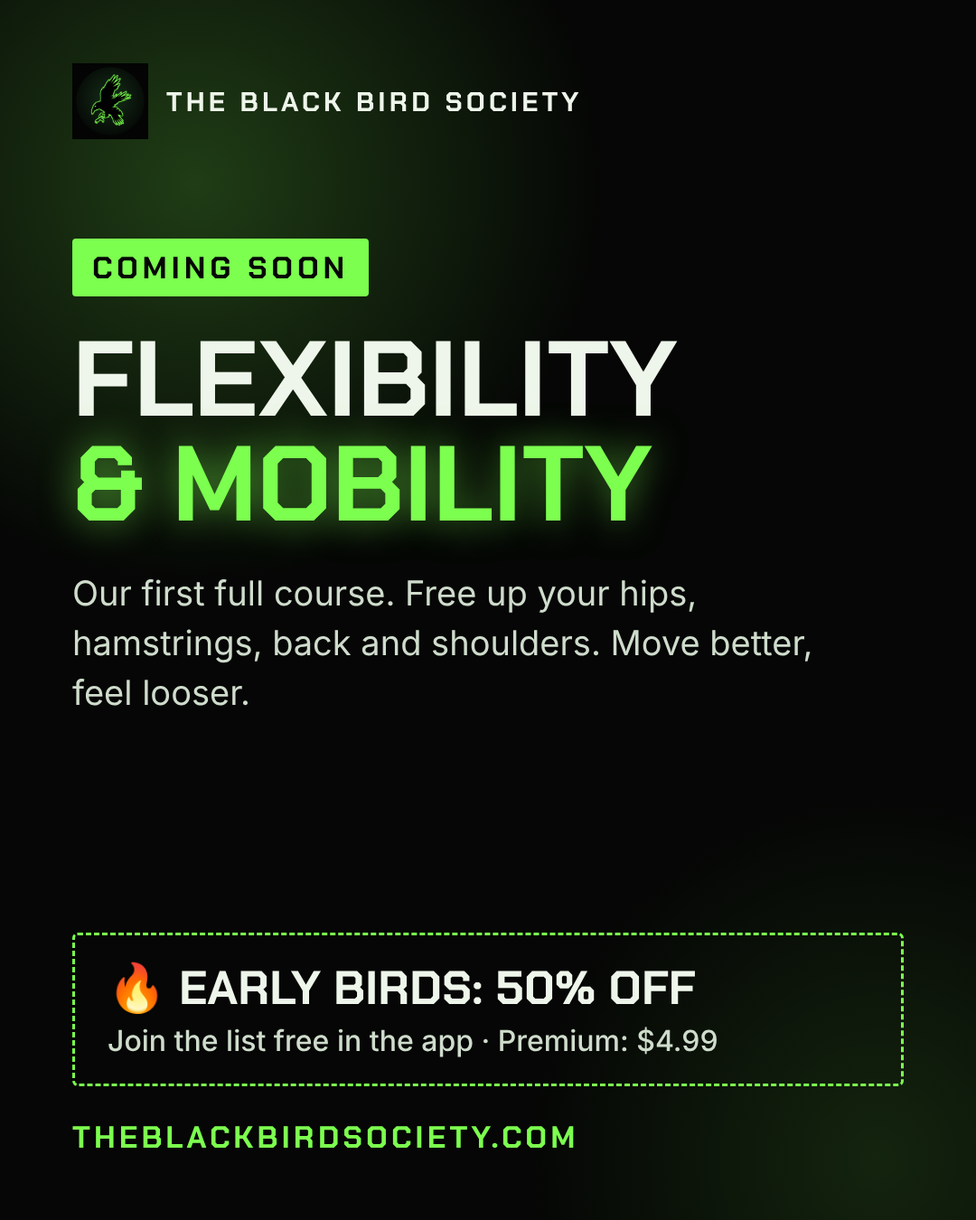
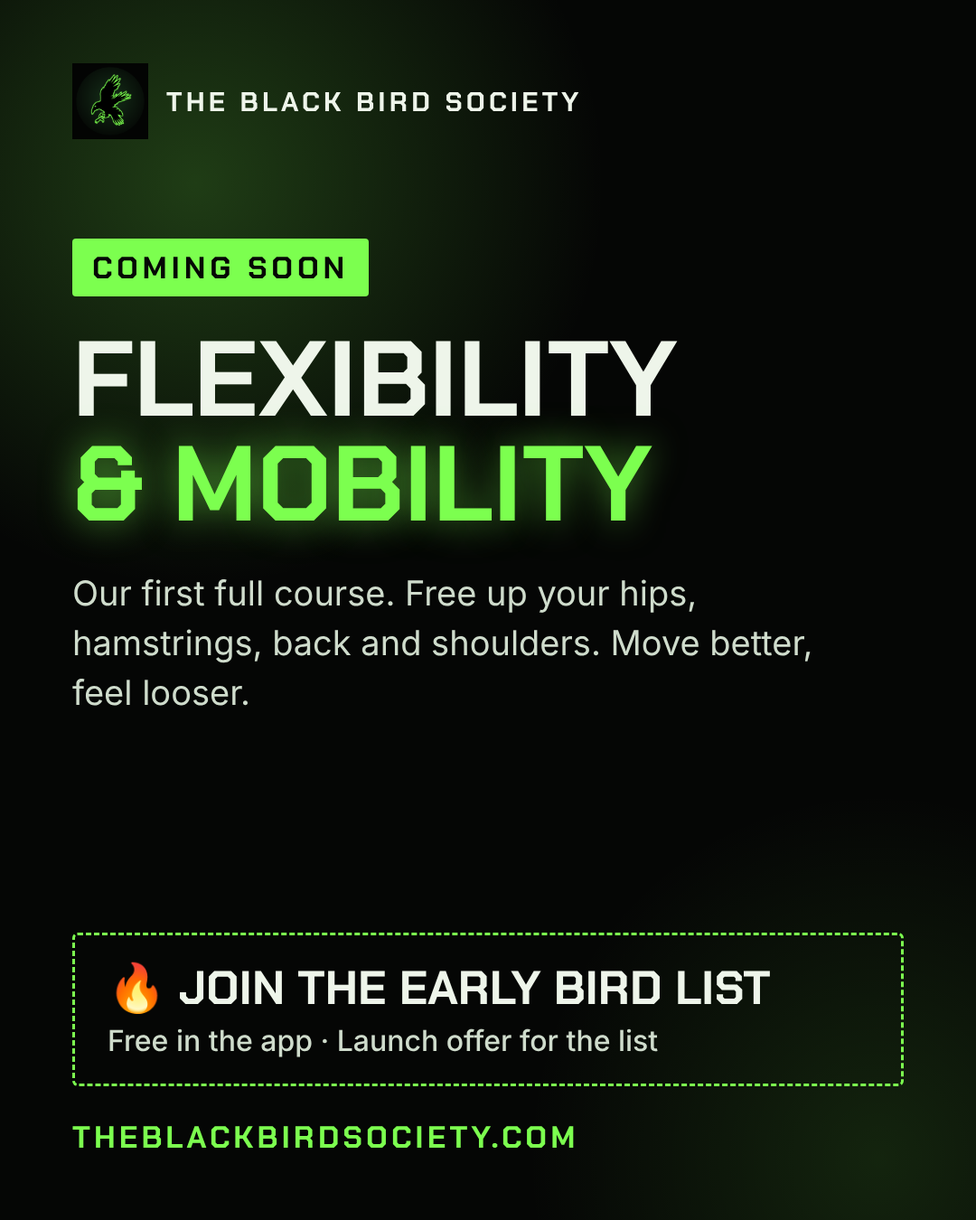
v77: no prices yet (teaser only), extras waitlist: meal packs, challenges, 1-to-1, shop
Claude-Session: https://claude.ai/code/session_01Uk22qZNG7xQMaRAJ8uwC6G

Changed region(s): [[0.0917, 0.7778, 0.7944, 0.8711]]

diff --git a/courses.html b/courses.html
@@ -1,8 +1,8 @@
 <!doctype html>
 <html lang="en"><head><meta charset="utf-8"><meta name="viewport" content="width=device-width, initial-scale=1, viewport-fit=cover">
-<title>Society Courses | The Black Bird Society</title><meta name="description" content="Full fitness courses from The Black Bird Society. Flexibility & Mobility is coming soon: early birds get 50% off, Premium members get every course at a special low price."><link rel="canonical" href="https://theblackbirdsociety.com/courses.html">
+<title>Society Courses | The Black Bird Society</title><meta name="description" content="Full fitness courses from The Black Bird Society. Flexibility & Mobility is coming soon: join the early bird list for a launch offer."><link rel="canonical" href="https://theblackbirdsociety.com/courses.html">
 <meta name="theme-color" content="#050605"><link rel="icon" href="/favicon.ico" sizes="48x48"><link rel="icon" type="image/png" sizes="96x96" href="/favicon-96.png"><link rel="apple-touch-icon" href="/apple-touch-icon.png">
-<meta property="og:type" content="article"><meta property="og:url" content="https://theblackbirdsociety.com/courses.html"><meta property="og:title" content="Society Courses | The Black Bird Society"><meta property="og:description" content="Full fitness courses from The Black Bird Society. Flexibility & Mobility is coming soon: early birds get 50% off, Premium members get every course at a special low price."><meta property="og:image" content="https://theblackbirdsociety.com/og.png">
+<meta property="og:type" content="article"><meta property="og:url" content="https://theblackbirdsociety.com/courses.html"><meta property="og:title" content="Society Courses | The Black Bird Society"><meta property="og:description" content="Full fitness courses from The Black Bird Society. Flexibility & Mobility is coming soon: join the early bird list for a launch offer."><meta property="og:image" content="https://theblackbirdsociety.com/og.png">
 <link rel="preconnect" href="https://fonts.googleapis.com"><link rel="stylesheet" href="https://fonts.googleapis.com/css2?family=Chakra+Petch:wght@500;600;700&family=Noto+Sans+Runic&family=Inter:wght@400;500;600;700&display=swap">
 <link rel="stylesheet" href="/site.css"><meta name="google-adsense-account" content="ca-pub-9202968623257308">
 <script async src="https://pagead2.googlesyndication.com/pagead/js/adsbygoogle.js?client=ca-pub-9202968623257308" crossorigin="anonymous"></script>
@@ -30,12 +30,12 @@
 .feat{border-color:var(--green-dim)!important;background:radial-gradient(80% 120% at 0% 0%,rgba(124,255,79,.12),transparent 60%),var(--surface)!important}
 .pt{display:grid;grid-template-columns:repeat(4,1fr);gap:8px;margin:0 0 16px}.pt div{border:1px solid var(--line2);border-radius:3px;padding:10px 12px;display:flex;flex-direction:column;gap:2px}.pt div.h{border-color:var(--green-dim)}.pt small{font-size:11px;color:var(--muted);text-transform:uppercase;letter-spacing:.06em}.pt b{font:700 22px var(--font-d)}.pt .h b{color:var(--green)}
 @media (max-width:560px){.pt{grid-template-columns:1fr 1fr}.cg{grid-template-columns:1fr}}
-</style><script type="application/ld+json">{"@context": "https://schema.org", "@type": "Article", "headline": "Society Courses", "description": "Full fitness courses from The Black Bird Society. Flexibility & Mobility is coming soon: early birds get 50% off, Premium members get every course at a special low price.", "author": {"@type": "Organization", "name": "The Black Bird Society"}, "publisher": {"@type": "Organization", "name": "The Black Bird Society", "logo": {"@type": "ImageObject", "url": "https://theblackbirdsociety.com/icon-512.png"}}, "image": "https://theblackbirdsociety.com/og.png", "datePublished": "2026-11-20", "dateModified": "2026-11-20", "mainEntityOfPage": "https://theblackbirdsociety.com/courses.html", "inLanguage": "en"}</script><script type="application/ld+json">{"@context": "https://schema.org", "@type": "BreadcrumbList", "itemListElement": [{"@type": "ListItem", "position": 1, "name": "Home", "item": "https://theblackbirdsociety.com/"}, {"@type": "ListItem", "position": 2, "name": "Blog", "item": "https://theblackbirdsociety.com/blog/"}, {"@type": "ListItem", "position": 3, "name": "Home or gym? Both work"}]}</script></head><body>
+</style><script type="application/ld+json">{"@context": "https://schema.org", "@type": "Article", "headline": "Society Courses", "description": "Full fitness courses from The Black Bird Society. Flexibility & Mobility is coming soon: join the early bird list for a launch offer.", "author": {"@type": "Organization", "name": "The Black Bird Society"}, "publisher": {"@type": "Organization", "name": "The Black Bird Society", "logo": {"@type": "ImageObject", "url": "https://theblackbirdsociety.com/icon-512.png"}}, "image": "https://theblackbirdsociety.com/og.png", "datePublished": "2026-11-20", "dateModified": "2026-11-20", "mainEntityOfPage": "https://theblackbirdsociety.com/courses.html", "inLanguage": "en"}</script><script type="application/ld+json">{"@context": "https://schema.org", "@type": "BreadcrumbList", "itemListElement": [{"@type": "ListItem", "position": 1, "name": "Home", "item": "https://theblackbirdsociety.com/"}, {"@type": "ListItem", "position": 2, "name": "Blog", "item": "https://theblackbirdsociety.com/blog/"}, {"@type": "ListItem", "position": 3, "name": "Home or gym? Both work"}]}</script></head><body>
 <header class="top"><div class="wrap">
   <a class="brand" href="/"><img src="/icon.png" alt=""><span><b>THE BLACK BIRD SOCIETY</b><small>EST. 2026</small></span></a>
   <nav class="links"><a class="hide-m" href="/#who">Who it's for</a><a class="hide-m" href="/#features">The app</a><a class="hide-m" href="/courses.html">Courses</a><a class="hide-m" href="/blog/">Blog</a><a class="hide-m" href="/#pricing">Pricing</a><a href="/app">Open the app</a></nav>
 </div></header>
-<main class="wrap pg"><div class="art" data-l="en" id="art"><p class="crumb"><a href="/">Home</a> / Courses</p><div class="lg"><button data-x="en" class="on">EN</button><button data-x="fr">FR</button></div><div class="en"><h1>Society Courses</h1><p class="lead">Deep-dive programs built by our coaches. Buy a course once and keep it forever. Premium members get every course at a special low price. The free app stays free.</p><div class="cta-box feat"><span class="btag">Coming soon</span><h3 style="font-size:30px;margin-top:10px">Flexibility &amp; Mobility</h3><p>A complete program to free up your hips, hamstrings, back and shoulders. Move better, feel looser, train with less pain.</p><p>🔥 <b>Early bird offer:</b> join the list now and get <b>50% off</b> at launch. Your rank discount stacks on top.</p><div class="pt"><div class=""><small>Price</small><b>$24.99</b></div><div class="h"><small>Early bird</small><b>$12.49</b></div><div class=""><small>Premium</small><b>$9.99</b></div><div class="h"><small>Premium early bird</small><b>$4.99</b></div></div><a class="btn btn-green" href="/app?c=1">Join the list · 50% off</a></div><div class="ghead"><span>ᚠ</span><h2>How it works</h2></div><div class="cg"><div><b>Buy once, keep forever</b><span>No subscription needed. The course is yours for life.</span></div><div><b>First lesson free</b><span>Try it before you buy, every course.</span></div><div><b>Premium price</b><span>Premium members get every course at a special price: up to 80% off.</span></div><div><b>Rank perks</b><span>The more you train, the less you pay: up to 20% off.</span></div></div><div class="ghead"><span>ᚱ</span><h2>Rank perks</h2></div><div class="ck"><div><i>ᛒ</i>Fledgling<em>—</em></div><div><i>ᚱ</i>Crow<em>-5%</em></div><div><i>ᚢ</i>Raven<em>-10%</em></div><div><i>ᛖ</i>Black Bird<em>-15%</em></div><div><i>ᛞ</i>Elder<em>-20%</em></div></div><div class="ghead"><span>ᚷ</span><h2>Vote for the next course</h2></div><p>The most wanted gets built next, and voters get the early bird price too. Vote in the app.</p><div class="ck"><div>Abs &amp; Core 30 days</div><div>Glute Builder</div><div>First Pull-up</div><div>Back &amp; Posture</div><div>60+ Strength &amp; Balance</div><div>Pregnancy &amp; After Birth</div><div>Fat Loss 8 weeks</div></div><p><a class="btn btn-green" href="/app?c=1">Vote in the app</a></p><div class="ghead"><span>ᛗ</span><h2>FAQ</h2></div><div class="fq"><h3>Is the app still free?</h3><p>Yes. Every free workout, meal and tool stays free. Courses are an optional extra.</p><h3>When does Flexibility &amp; Mobility launch?</h3><p>Soon. Join the list in the app and you'll be the first to know, with your 50% early bird price.</p><h3>I'm Premium. What do I pay?</h3><p>You pay much less: Flexibility &amp; Mobility is $9.99 instead of $24.99 for Premium members, or $4.99 if you join the early bird list.</p></div></div><div class="fr"><h1>Les cours de la Society</h1><p class="lead">Des programmes complets créés par nos coachs. Achète un cours une fois et garde-le pour toujours. Les membres Premium ont chaque cours à petit prix. L'appli gratuite reste gratuite.</p><div class="cta-box feat"><span class="btag">Bientôt</span><h3 style="font-size:30px;margin-top:10px">Souplesse &amp; Mobilité</h3><p>Un programme complet pour libérer tes hanches, ischios, dos et épaules. Bouge mieux, sens-toi plus libre, entraîne-toi avec moins de douleurs.</p><p>🔥 <b>Offre premiers inscrits :</b> inscris-toi maintenant et profite de <b>-50 %</b> au lancement. La réduction de ton rang s'ajoute en plus.</p><div class="pt"><div class=""><small>Prix</small><b>24,99 $</b></div><div class="h"><small>Premier inscrit</small><b>12,49 $</b></div><div class=""><small>Premium</small><b>9,99 $</b></div><div class="h"><small>Premium + premier inscrit</small><b>4,99 $</b></div></div><a class="btn btn-green" href="/app?c=1">M'inscrire · -50 %</a></div><div class="ghead"><span>ᚠ</span><h2>Comment ça marche</h2></div><div class="cg"><div><b>Achète une fois, garde-le</b><span>Pas besoin d'abonnement. Le cours est à toi pour toujours.</span></div><div><b>Première leçon offerte</b><span>Essaie avant d'acheter, pour chaque cours.</span></div><div><b>Prix Premium</b><span>Les membres Premium ont chaque cours à prix spécial : jusqu'à -80 %.</span></div><div><b>Avantages de rang</b><span>Plus tu t'entraînes, moins tu paies : jusqu'à -20 %.</span></div></div><div class="ghead"><span>ᚱ</span><h2>Avantages de rang</h2></div><div class="ck"><div><i>ᛒ</i>Oisillon<em>—</em></div><div><i>ᚱ</i>Corbeau<em>-5%</em></div><div><i>ᚢ</i>Grand Corbeau<em>-10%</em></div><div><i>ᛖ</i>Black Bird<em>-15%</em></div><div><i>ᛞ</i>Ancien<em>-20%</em></div></div><div class="ghead"><span>ᚷ</span><h2>Vote pour le prochain cours</h2></div><p>Le plus demandé sera créé ensuite, et les votants ont aussi le tarif premiers inscrits. Vote dans l’appli.</p><div class="ck"><div>Abdos &amp; Gainage 30 jours</div><div>Fessiers sculptés</div><div>Première traction</div><div>Dos &amp; Posture</div><div>60+ Force &amp; Équilibre</div><div>Grossesse &amp; Après bébé</div><div>Perte de gras 8 semaines</div></div><p><a class="btn btn-green" href="/app?c=1">Voter dans l’appli</a></p><div class="ghead"><span>ᛗ</span><h2>FAQ</h2></div><div class="fq"><h3>L'appli reste gratuite ?</h3><p>Oui. Toutes les séances, repas et outils gratuits restent gratuits. Les cours sont un extra en option.</p><h3>Quand sort Souplesse &amp; Mobilité ?</h3><p>Bientôt. Inscris-toi dans l'appli et tu seras prévenu en premier, avec ton tarif premiers inscrits à -50 %.</p><h3>Je suis Premium. Combien je paie ?</h3><p>Tu paies beaucoup moins : Souplesse &amp; Mobilité est à 9,99 $ au lieu de 24,99 $ pour les membres Premium, ou 4,99 $ si tu t'inscris sur la liste.</p></div></div></div></main>
+<main class="wrap pg"><div class="art" data-l="en" id="art"><p class="crumb"><a href="/">Home</a> / Courses</p><div class="lg"><button data-x="en" class="on">EN</button><button data-x="fr">FR</button></div><div class="en"><h1>Society Courses</h1><p class="lead">Deep-dive programs built by our coaches. Plus more extras on the way. The free app stays free.</p><div class="cta-box feat"><span class="btag">Coming soon</span><h3 style="font-size:30px;margin-top:10px">Flexibility &amp; Mobility</h3><p>A complete program to free up your hips, hamstrings, back and shoulders. Move better, feel looser, train with less pain.</p><p>🔥 <b>Early bird list:</b> join now and get a special launch offer, only for people on the list.</p><a class="btn btn-green" href="/app?c=1">Join the early bird list</a></div><div class="ghead"><span>ᚠ</span><h2>How it works</h2></div><div class="cg"><div><b>Buy once, keep forever</b><span>No subscription needed. The course is yours for life.</span></div><div><b>Early bird list</b><span>Join free now, get a launch offer later.</span></div><div><b>Premium price</b><span>Premium members will get a special price on every course.</span></div><div><b>More extras</b><span>Meal plan packs, challenges, 1-to-1 programs and the Society Shop are on the way.</span></div></div><div class="ghead"><span>ᚷ</span><h2>Vote for the next course</h2></div><p>The most wanted gets built next, and voters join its early bird list. Vote in the app.</p><div class="ck"><div>Abs &amp; Core 30 days</div><div>Glute Builder</div><div>First Pull-up</div><div>Back &amp; Posture</div><div>60+ Strength &amp; Balance</div><div>Pregnancy &amp; After Birth</div><div>Fat Loss 8 weeks</div></div><p><a class="btn btn-green" href="/app?c=1">Vote in the app</a></p><div class="ghead"><span>ᛗ</span><h2>FAQ</h2></div><div class="fq"><h3>Is the app still free?</h3><p>Yes. Every free workout, meal and tool stays free. Courses are an optional extra.</p><h3>When does Flexibility &amp; Mobility launch?</h3><p>Soon. Join the list in the app and you'll be the first to know, with your early bird offer.</p><h3>I'm Premium. What do I pay?</h3><p>Premium members will get a special price on every course. Details at launch.</p></div></div><div class="fr"><h1>Les cours de la Society</h1><p class="lead">Des programmes complets créés par nos coachs. Et d'autres extras en préparation. L'appli gratuite reste gratuite.</p><div class="cta-box feat"><span class="btag">Bientôt</span><h3 style="font-size:30px;margin-top:10px">Souplesse &amp; Mobilité</h3><p>Un programme complet pour libérer tes hanches, ischios, dos et épaules. Bouge mieux, sens-toi plus libre, entraîne-toi avec moins de douleurs.</p><p>🔥 <b>Liste des premiers inscrits :</b> inscris-toi maintenant et profite d'une offre de lancement réservée aux inscrits.</p><a class="btn btn-green" href="/app?c=1">M'inscrire en avant-première</a></div><div class="ghead"><span>ᚠ</span><h2>Comment ça marche</h2></div><div class="cg"><div><b>Achète une fois, garde-le</b><span>Pas besoin d'abonnement. Le cours est à toi pour toujours.</span></div><div><b>Liste avant-première</b><span>Inscris-toi gratuitement, profite d'une offre au lancement.</span></div><div><b>Prix Premium</b><span>Les membres Premium auront un prix spécial sur chaque cours.</span></div><div><b>D'autres extras</b><span>Packs repas, défis, programmes 1-to-1 et la boutique Society arrivent.</span></div></div><div class="ghead"><span>ᚷ</span><h2>Vote pour le prochain cours</h2></div><p>Le plus demandé sera créé ensuite, et les votants rejoignent sa liste d’avant-première. Vote dans l’appli.</p><div class="ck"><div>Abdos &amp; Gainage 30 jours</div><div>Fessiers sculptés</div><div>Première traction</div><div>Dos &amp; Posture</div><div>60+ Force &amp; Équilibre</div><div>Grossesse &amp; Après bébé</div><div>Perte de gras 8 semaines</div></div><p><a class="btn btn-green" href="/app?c=1">Voter dans l’appli</a></p><div class="ghead"><span>ᛗ</span><h2>FAQ</h2></div><div class="fq"><h3>L'appli reste gratuite ?</h3><p>Oui. Toutes les séances, repas et outils gratuits restent gratuits. Les cours sont un extra en option.</p><h3>Quand sort Souplesse &amp; Mobilité ?</h3><p>Bientôt. Inscris-toi dans l'appli et tu seras prévenu en premier, avec ton offre de lancement.</p><h3>Je suis Premium. Combien je paie ?</h3><p>Les membres Premium auront un prix spécial sur chaque cours. Détails au lancement.</p></div></div></div></main>
 <footer><div class="wrap">
   <div><a class="brand" href="/"><img src="/icon.png" alt=""><span><b>THE BLACK BIRD SOCIETY</b><small>EST. 2026</small></span></a>
   <p class="small" style="margin-top:12px">Contact: <a href="mailto:contact@theblackbirdsociety.com" style="color:var(--green)">contact@theblackbirdsociety.com</a></p>

diff --git a/app.html b/app.html
@@ -3052,11 +3052,12 @@ function ssCalLinks(x){
 /* ===== Society Courses (21 Nov 2026): paid extras, waitlist + vote for the next course ===== */
 const CRS = ["flex","abs30","glutes","pullup","posture","over60","mama","fatloss"];
 const CRS_OFF = [0,5,10,15,20];
+const CRS_X = ["meals","challenge","coach","shop"];
 function loadCrs(){ if(!sb) return; sb.rpc("course_stats").then(({ data }) => { st.crs = data || {mine:[],counts:{}}; render(); }).catch(() => {}); }
 function crsWant(c){
   if(!(sb && st.user && st.user.cloud)){ toast(tx("crsLogin")); return; }
   const mine = (st.crs && st.crs.mine) || [], on = !mine.includes(c);
-  sb.rpc("course_want", {p_course: c, p_on: on}).then(({ data }) => { if(data) st.crs = data; if(on) toast(tx(c === "flex" ? "crsJoined" : "crsVoted")); render(); }).catch(() => toast(tx("fbFail")));
+  sb.rpc("course_want", {p_course: c, p_on: on}).then(({ data }) => { if(data) st.crs = data; if(on) toast(tx(c === "flex" ? "crsJoined" : CRS_X.includes(c) ? "crsNoted" : "crsVoted")); render(); }).catch(() => toast(tx("fbFail")));
 }
 function crsNudge(){
   if(st.crsHide || store.get("bbt_crshide", 0) > Date.now()) return "";
@@ -3067,6 +3068,8 @@ function crsSheet(){
   const r = rankOf(st.total || 0), joined = mine.includes("flex"), nFlex = +cnt.flex || 0;
   const chk = I.check;
   const ranks = RANKS.map((rk,i) => `<div class="${i === r ? "me" : ""}"><span class="rune">${RUNES[i]}</span><span>${RN(i)}${i === r ? ` <small class="muted">· ${tx("crsYou")}</small>` : ""}</span><em>${CRS_OFF[i] ? "-" + CRS_OFF[i] + "%" : "—"}</em></div>`).join("");
+  const extras = CRS_X.map(c => { const on = mine.includes(c);
+    return `<div class="crsv"><span class="grow" style="min-width:0"><b>${tx("crs_" + c)}</b><small>${tx("crsd_" + c)}</small></span><button class="pill${on ? " on" : ""}" data-act="crsw" data-c="${c}" aria-pressed="${on}">${on ? "✓ " + tx("crsNotOn") : tx("crsNot")}</button></div>`; }).join("");
   const votes = CRS.slice(1).map(c => { const on = mine.includes(c), n = +cnt[c] || 0;
     return `<div class="crsv"><span class="grow" style="min-width:0"><b>${tx("crs_" + c)}</b><small>${tx("crsd_" + c)}${n ? ` <span style="white-space:nowrap">· 🔥 ${n}</span>` : ""}</small></span><button class="pill${on ? " on" : ""}" data-act="crsw" data-c="${c}" aria-pressed="${on}">${on ? "✓ " + tx("crsVoteOn") : tx("crsVote")}</button></div>`; }).join("");
   return `<div class="backdrop" data-act="crsx"></div><div class="sheet" role="dialog" aria-modal="true" aria-label="${tx("crsT")}"><div class="grab"></div>
@@ -3074,8 +3077,7 @@ function crsSheet(){
     <p class="muted" style="margin:0;font-size:14px;line-height:1.5">${tx("crsSub")}</p>
     <div class="crsfeat"><span class="crsnew" style="align-self:flex-start;font-size:11px;padding:3px 7px;margin:0">${tx("crsSoon")}</span>
       <h3>${tx("crs_flex")}</h3><p class="muted" style="margin:0;font-size:14px;line-height:1.5">${tx("crsFlexP")}</p>
-      <ul><li>${chk}<span>${tx("crsB1")}</span></li><li>${chk}<span>${tx("crsB2")}</span></li><li>${chk}<span>${tx("crsB3")}</span></li><li>${chk}<span>${tx("crsB4")}</span></li></ul>
-      <div class="crsprice"><div><small>${tx("crsPrReg")}</small><b>$24.99</b></div><div class="hot"><small>${tx("crsPrEb")}</small><b>$12.49</b></div><div><small>Premium</small><b>$9.99</b></div><div class="hot"><small>${tx("crsPrBoth")}</small><b>$4.99</b></div></div>
+      <ul><li>${chk}<span>${tx("crsB1")}</span></li><li>${chk}<span>${tx("crsB2")}</span></li><li>${chk}<span>${tx("crsB4")}</span></li></ul>
       <div class="crsdeal">🔥 <b>${tx("crsDealT")}</b> ${tx("crsDealP")}</div>
       <button class="btn ${joined ? "btn-line" : "btn-gold"}" data-act="crsw" data-c="flex" aria-pressed="${joined}" style="min-height:48px">${joined ? "✓ " + tx("crsOnList") : tx("crsJoin")}</button>
       ${nFlex >= 5 ? `<p class="small" style="margin:0;text-align:center">${tx("crsCount").replace("{n}", nFlex)}</p>` : ""}
@@ -3083,36 +3085,36 @@ function crsSheet(){
     <div class="card" style="display:flex;flex-direction:column;gap:8px"><p class="eyebrow gold">👑 ${t("pro")}</p>
       <p style="margin:0;font-size:14px;line-height:1.5">${isPro ? tx("crsProYes") : tx("crsProNo")}</p>
       ${isPro ? "" : `<button class="btn btn-line" data-act="crspro" style="min-height:44px;font-size:14px">${tx("pmGo")} ${I.arrow}</button>`}</div>
-    <div class="card" style="display:flex;flex-direction:column;gap:8px"><p class="eyebrow gold">${tx("crsRkT")}</p>
-      <p class="muted" style="margin:0;font-size:13px;line-height:1.5">${tx("crsRkP")}</p><div class="crsrk">${ranks}</div></div>
     <div class="card" style="display:flex;flex-direction:column;gap:2px"><p class="eyebrow gold">${tx("crsVoteT")}</p>
       <p class="muted" style="margin:0 0 4px;font-size:13px;line-height:1.5">${tx("crsVoteP")}</p>${votes}</div>
+    <div class="card" style="display:flex;flex-direction:column;gap:2px"><p class="eyebrow gold">${tx("crsXT")}</p>
+      <p class="muted" style="margin:0 0 4px;font-size:13px;line-height:1.5">${tx("crsXP")}</p>${extras}</div>
   </div>`;
 }
 { const X = {
-en:{crsT:"Society Courses",crsNew:"New",crsTile:"Flexibility & Mobility · soon",crsSee:"See the offer",crsNudge:"Society Courses are coming: Flexibility & Mobility first. Early birds get 50% off.",
-crsSub:"Deep-dive programs built by our coaches. Buy a course once and keep it forever. Premium members get every course at a special low price. The free app stays free.",
+en:{crsT:"Society Courses",crsNew:"New",crsTile:"Flexibility & Mobility · soon",crsSee:"See the offer",crsNudge:"Society Courses are coming: Flexibility & Mobility first. Join the early bird list for a launch offer.",
+crsSub:"Deep-dive programs built by our coaches, plus more extras on the way. The free app stays free.",
 crsSoon:"Coming soon",crs_flex:"Flexibility & Mobility",crsFlexP:"A complete program to free up your hips, hamstrings, back and shoulders. Move better, feel looser, train with less pain.",
 crsB1:"Step-by-step guided sessions with timer and beeps",crsB2:"For every level, from stiff beginner up",crsB3:"First lesson free for everyone",crsB4:"Buy once, yours forever",
-crsDealT:"Early bird offer:",crsDealP:"join the list now and get 50% off at launch. Your rank discount stacks on top.",crsJoin:"Join the list · 50% off",crsOnList:"You're on the list",crsCount:"{n} members already on the list",
-crsProYes:"You're Premium: you get every Society course at the Premium price. Flexibility & Mobility: $9.99 instead of $24.99, or $4.99 as an early bird.",crsProNo:"Premium members get every Society course at a special price: Flexibility & Mobility for $9.99 instead of $24.99, or $4.99 as an early bird.",
+crsDealT:"Early bird list:",crsDealP:"join now and get a special launch offer, only for people on the list.",crsJoin:"Join the early bird list",crsOnList:"You're on the list",crsCount:"{n} members already on the list",
+crsProYes:"You're Premium: you'll get a special Premium price on every Society course.",crsProNo:"Premium members will get a special price on every Society course.",
 crsRkT:"Rank perks",crsRkP:"The more you train, the less you pay. Your rank gives you a discount on every course.",crsYou:"you",
-crsVoteT:"Vote for the next course",crsVoteP:"Tap the ones you want. The most wanted gets built next, and voters get the early bird price too.",crsVote:"I want it",crsVoteOn:"Voted",
+crsVoteT:"Vote for the next course",crsVoteP:"Tap the ones you want. The most wanted gets built next, and voters join its early bird list.",crsVote:"I want it",crsVoteOn:"Voted",
 crs_abs30:"Abs & Core 30 days",crsd_abs30:"A daily core challenge",crs_glutes:"Glute Builder",crsd_glutes:"Stronger, rounder glutes",crs_pullup:"First Pull-up",crsd_pullup:"From zero to your first rep",
 crs_posture:"Back & Posture",crsd_posture:"For desk days and sore backs",crs_over60:"60+ Strength & Balance",crsd_over60:"Stay strong and steady",crs_mama:"Pregnancy & After Birth",crsd_mama:"A full program, step by step",crs_fatloss:"Fat Loss 8 weeks",crsd_fatloss:"Training + meals + grocery lists",
-crsPrReg:"Price",crsPrEb:"Early bird",crsPrBoth:"Premium early bird",crsLogin:"Log in to join the list.",crsJoined:"You're on the list! We'll tell you first, with your early bird 50% off.",crsVoted:"Vote counted. Thanks!",crsPf:"Society courses at the Premium price, up to 80% off (coming soon)",
+crsPrReg:"Price",crsPrEb:"Early bird",crsPrBoth:"Premium early bird",crsXT:"More extras coming",crsXP:"Tap what you want and we'll tell you first when it's ready.",crsNot:"Notify me",crsNotOn:"On the list",crsNoted:"Noted! You'll be the first to know.",crs_meals:"Meal plan packs",crsd_meals:"Budget, high-protein, vegetarian",crs_challenge:"Monthly challenges",crsd_challenge:"30 days, a goal and a badge",crs_coach:"1-to-1 program",crsd_coach:"A plan written for you by a coach",crs_shop:"Society Shop",crsd_shop:"Apparel and gear",crsLogin:"Log in to join the list.",crsJoined:"You're on the list! We'll tell you first, with your early bird offer.",crsVoted:"Vote counted. Thanks!",crsPf:"Special Premium price on Society courses (coming soon)",
 n_adm_course:"📚 {name} wants the course: {course}"},
-fr:{crsT:"Cours de la Society",crsNew:"Nouveau",crsTile:"Souplesse & Mobilité · bientôt",crsSee:"Voir l'offre",crsNudge:"Les cours de la Society arrivent : Souplesse & Mobilité en premier. -50 % pour les premiers inscrits.",
-crsSub:"Des programmes complets créés par nos coachs. Achète un cours une fois et garde-le pour toujours. Les membres Premium ont chaque cours à petit prix. L'appli gratuite reste gratuite.",
+fr:{crsT:"Cours de la Society",crsNew:"Nouveau",crsTile:"Souplesse & Mobilité · bientôt",crsSee:"Voir l'offre",crsNudge:"Les cours de la Society arrivent : Souplesse & Mobilité en premier. Inscris-toi pour l'offre de lancement.",
+crsSub:"Des programmes complets créés par nos coachs, et d'autres extras en préparation. L'appli gratuite reste gratuite.",
 crsSoon:"Bientôt",crs_flex:"Souplesse & Mobilité",crsFlexP:"Un programme complet pour libérer tes hanches, ischios, dos et épaules. Bouge mieux, sens-toi plus libre, entraîne-toi avec moins de douleurs.",
 crsB1:"Séances guidées pas à pas avec minuteur et bips",crsB2:"Pour tous les niveaux, même si tu es raide",crsB3:"Première leçon offerte à tous",crsB4:"Achète une fois, à toi pour toujours",
-crsDealT:"Offre premiers inscrits :",crsDealP:"inscris-toi maintenant et profite de -50 % au lancement. La réduction de ton rang s'ajoute en plus.",crsJoin:"M'inscrire · -50 %",crsOnList:"Tu es sur la liste",crsCount:"{n} membres déjà inscrits",
-crsProYes:"Tu es Premium : tu as chaque cours de la Society au prix Premium. Souplesse & Mobilité : 9,99 $ au lieu de 24,99 $, ou 4,99 $ en premier inscrit.",crsProNo:"Les membres Premium ont chaque cours de la Society à prix spécial : Souplesse & Mobilité à 9,99 $ au lieu de 24,99 $, ou 4,99 $ en premier inscrit.",
+crsDealT:"Liste des premiers inscrits :",crsDealP:"inscris-toi maintenant et profite d'une offre de lancement réservée aux inscrits.",crsJoin:"M'inscrire en avant-première",crsOnList:"Tu es sur la liste",crsCount:"{n} membres déjà inscrits",
+crsProYes:"Tu es Premium : tu auras un prix Premium spécial sur chaque cours de la Society.",crsProNo:"Les membres Premium auront un prix spécial sur chaque cours de la Society.",
 crsRkT:"Avantages de rang",crsRkP:"Plus tu t'entraînes, moins tu paies. Ton rang te donne une réduction sur chaque cours.",crsYou:"toi",
-crsVoteT:"Vote pour le prochain cours",crsVoteP:"Touche ceux que tu veux. Le plus demandé sera créé ensuite, et les votants ont aussi le tarif premiers inscrits.",crsVote:"Je le veux",crsVoteOn:"Voté",
+crsVoteT:"Vote pour le prochain cours",crsVoteP:"Touche ceux que tu veux. Le plus demandé sera créé ensuite, et les votants rejoignent sa liste d'avant-première.",crsVote:"Je le veux",crsVoteOn:"Voté",
 crs_abs30:"Abdos & Gainage 30 jours",crsd_abs30:"Un défi gainage chaque jour",crs_glutes:"Fessiers sculptés",crsd_glutes:"Des fessiers plus forts et plus ronds",crs_pullup:"Première traction",crsd_pullup:"De zéro à ta première rep",
 crs_posture:"Dos & Posture",crsd_posture:"Pour les journées au bureau et le mal de dos",crs_over60:"60+ Force & Équilibre",crsd_over60:"Rester fort et stable",crs_mama:"Grossesse & Après bébé",crsd_mama:"Un programme complet, pas à pas",crs_fatloss:"Perte de gras 8 semaines",crsd_fatloss:"Entraînement + repas + listes de courses",
-crsPrReg:"Prix",crsPrEb:"Premier inscrit",crsPrBoth:"Premium + premier inscrit",crsLogin:"Connecte-toi pour t'inscrire.",crsJoined:"Tu es sur la liste ! Tu seras prévenu en premier, avec tes -50 %.",crsVoted:"Vote enregistré. Merci !",crsPf:"Cours de la Society au prix Premium, jusqu'à -80 % (bientôt)",
+crsPrReg:"Prix",crsPrEb:"Premier inscrit",crsPrBoth:"Premium + premier inscrit",crsXT:"D'autres extras arrivent",crsXP:"Touche ce qui t'intéresse, on te prévient en premier quand c'est prêt.",crsNot:"Me prévenir",crsNotOn:"Sur la liste",crsNoted:"C'est noté ! Tu seras prévenu en premier.",crs_meals:"Packs de plans repas",crsd_meals:"Petit budget, protéiné, végétarien",crs_challenge:"Défis du mois",crsd_challenge:"30 jours, un objectif et un badge",crs_coach:"Programme 1-to-1",crsd_coach:"Un plan écrit pour toi par un coach",crs_shop:"Boutique Society",crsd_shop:"Vêtements et équipement",crsLogin:"Connecte-toi pour t'inscrire.",crsJoined:"Tu es sur la liste ! Tu seras prévenu en premier, avec ton offre de lancement.",crsVoted:"Vote enregistré. Merci !",crsPf:"Prix Premium spécial sur les cours de la Society (bientôt)",
 n_adm_course:"📚 {name} veut le cours : {course}"}};
 Object.keys(X).forEach(l=>Object.assign(TX[l]=TX[l]||{},X[l])); }
 function pushNudge(){
@@ -4913,7 +4915,7 @@ if("serviceWorker" in navigator && location.protocol === "https:") navigator.ser
 /* new version check: on open and every time the app comes back to the screen */
 (() => { try{ if(new URLSearchParams(location.search).get("n") === "1"){ setTimeout(() => { if(st.user){ st.nOpen = true; pushState(); render(); } }, 900); history.replaceState(history.state, "", location.pathname); } }catch(e){} })();
 setTimeout(() => { if(st.user && st.user.cloud) pushState(); }, 3000);
-const APP_V = "bbt-v76";
+const APP_V = "bbt-v77";
 function verCheck(){ if(location.protocol !== "https:") return;
   if(st.newV){ if(st.view !== "work") updNow(); return; }
   fetch("/sw.js?v=" + Date.now(), {cache:"no-store"}).then(r => r.text()).then(tx2 => { const m = tx2.match(/bbt-v\d+/); if(m && +m[0].slice(5) > +APP_V.slice(5)){ st.newV = m[0]; if(st.view !== "work") updNow(); } }).catch(() => {}); }

diff --git a/index.html b/index.html
@@ -214,10 +214,10 @@
 </script>
 
 <section id="courses" class="sec"><div class="wrap">
-  <div class="sec-head"><p class="eyebrow">New · Society Courses</p><h2>Go deeper with a full course.</h2><p class="muted">Step-by-step programs built by our coaches. Buy a course once and keep it forever. Premium members get every course at a special low price. The free app stays free.</p></div>
+  <div class="sec-head"><p class="eyebrow">New · Society Courses</p><h2>Go deeper with a full course.</h2><p class="muted">Step-by-step programs built by our coaches, plus more extras on the way. The free app stays free.</p></div>
   <div class="card crs-hero"><span class="tag">Coming soon</span><h3>Flexibility &amp; Mobility</h3><p class="muted">A complete program to free up your hips, hamstrings, back and shoulders. Move better, feel looser, train with less pain.</p>
-    <ul class="ticks"><li>Early bird: 50% off at launch when you join the list</li><li>First lesson free for everyone</li><li>Rank perks: up to 20% extra off as you train</li><li>$24.99 · Early bird $12.49 · Premium $9.99 (early bird $4.99)</li></ul>
-    <div class="crs-cta"><a class="btn btn-green" href="/app?c=1">Join the list · 50% off</a><a class="btn" href="/courses.html">See all courses</a></div></div>
+    <ul class="ticks"><li>Step-by-step guided sessions</li><li>For every level, from stiff beginner up</li><li>Early bird list: a special launch offer for people who join now</li><li>Special price for Premium members</li></ul>
+    <div class="crs-cta"><a class="btn btn-green" href="/app?c=1">Join the early bird list</a><a class="btn" href="/courses.html">See all courses</a></div></div>
 </div></section>
 <style>.crs-hero{position:relative;display:flex;flex-direction:column;gap:12px;max-width:760px;border-color:var(--green-dim)!important;background:radial-gradient(80% 120% at 0% 0%,rgba(124,255,79,.12),transparent 60%),var(--surface)}.crs-hero .tag{align-self:flex-start}.crs-hero h3{font-size:clamp(24px,3.5vw,34px)}.crs-cta{display:flex;flex-wrap:wrap;gap:10px;margin-top:6px}</style>
 
@@ -225,8 +225,8 @@
   <div class="sec-head"><p class="eyebrow">Pricing</p><h2>Start free. Go Premium when you're ready.</h2><p class="muted">Prices in US dollars. Taxes are calculated at checkout where applicable.</p></div>
   <div class="prices">
     <div class="card plan"><h3>Free</h3><p class="price">$0</p><ul class="ticks"><li>Starter sessions</li><li>Machine swaps (limited)</li><li>Rest timer and tracking</li><li>Ads between workouts</li></ul></div>
-    <div class="card plan"><h3>Premium monthly</h3><p class="price">$7.99<small> / month</small></p><ul class="ticks"><li>All sessions and plans</li><li>Unlimited smart swaps</li><li>No ads</li><li>New workouts every month</li><li>Society courses at Premium price, up to 80% off (coming soon)</li></ul><p class="small">7-day free trial. Cancel anytime.</p></div>
-    <div class="card plan best"><span class="tag">Best value · save 48%</span><h3>Premium yearly</h3><p class="price">$49.99<small> / year</small></p><ul class="ticks"><li>Everything in Premium</li><li>Society courses at Premium price, up to 80% off (coming soon)</li><li>Just $4.17 a month</li><li>Members-only perks</li></ul><p class="small">7-day free trial. Cancel anytime.</p></div>
+    <div class="card plan"><h3>Premium monthly</h3><p class="price">$7.99<small> / month</small></p><ul class="ticks"><li>All sessions and plans</li><li>Unlimited smart swaps</li><li>No ads</li><li>New workouts every month</li><li>Special Premium price on Society courses (coming soon)</li></ul><p class="small">7-day free trial. Cancel anytime.</p></div>
+    <div class="card plan best"><span class="tag">Best value · save 48%</span><h3>Premium yearly</h3><p class="price">$49.99<small> / year</small></p><ul class="ticks"><li>Everything in Premium</li><li>Special Premium price on Society courses (coming soon)</li><li>Just $4.17 a month</li><li>Members-only perks</li></ul><p class="small">7-day free trial. Cancel anytime.</p></div>
   </div>
   <p class="small" style="margin-top:18px">Payments are processed by our reseller Paddle.com, the Merchant of Record for all orders. See our <a href="/terms.html">Terms</a> and <a href="/refund.html">Refund Policy</a>.</p>
 </div></section>

diff --git a/sw.js b/sw.js
@@ -1,5 +1,5 @@
 /* Black Bird Training offline support: the app shell is cached so workouts run without a signal. */
-const CACHE = "bbt-v76";
+const CACHE = "bbt-v77";
 const SHELL = ["/app", "/icon-192.png", "/icon-512.png", "/maskable-512.png", "/apple-touch-icon.png", "/favicon.ico", "/manifest.json", "/qrcode.min.js"];
 self.addEventListener("install", e => {
   e.waitUntil(caches.open(CACHE).then(c => c.addAll(SHELL)).then(() => self.skipWaiting()));
